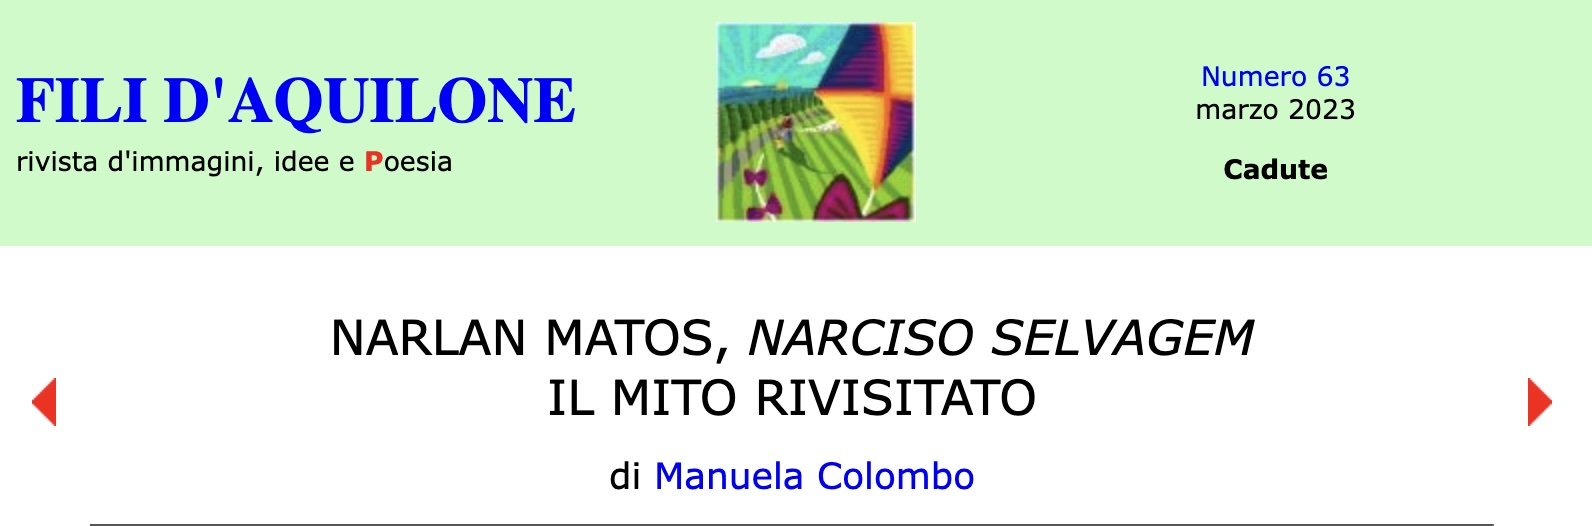
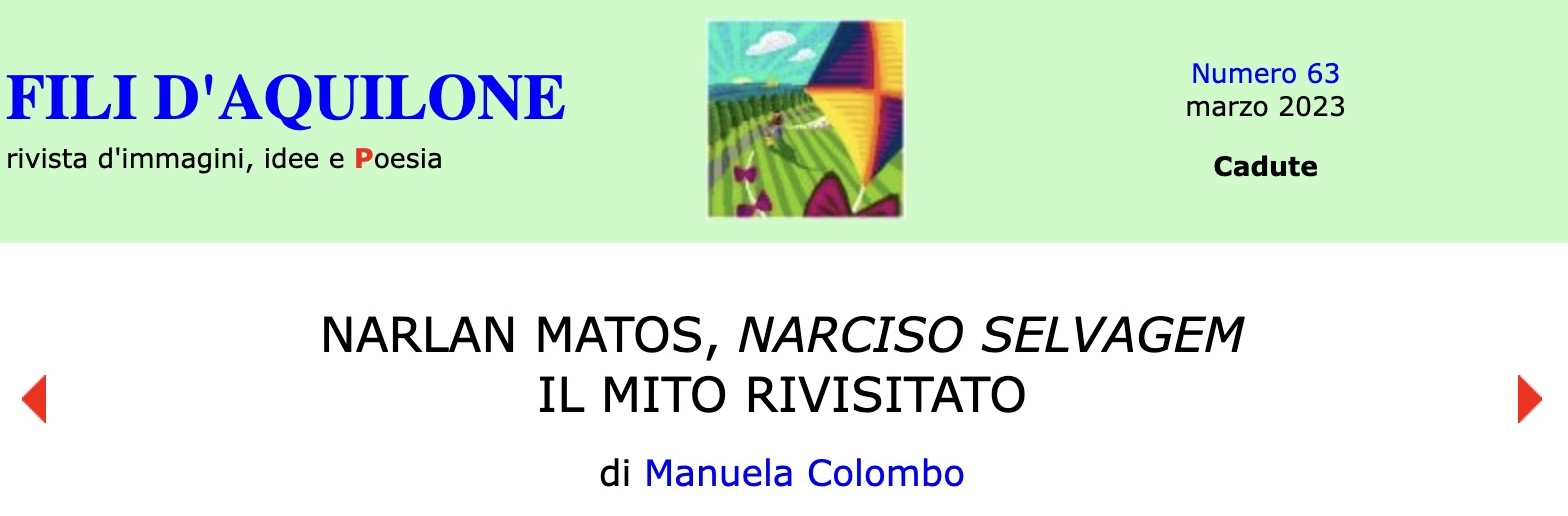
fili images

diff --git a/_languages/italian.md b/_languages/italian.md
@@ -18,7 +18,7 @@ feature_row_books:
     btn_class: "btn--primary"
     
 feature_row_jm:
-  - image_path: /assets/images/features/interim.jpg
+  - image_path: /assets/images/features/fili-2014.jpg
     title: "Manca Qualcosa Nella Stanza: La poesia di Narlan Matos"
     excerpt: |
       Translations by Giorgio Mobili
@@ -28,7 +28,7 @@ feature_row_jm:
     btn_label: "Leggere"
     btn_class: "btn--primary" 
     
-  - image_path: /assets/images/features/interim.jpg
+  - image_path: /assets/images/features/fili-2017-45.jpg
     title: "Dalla Provincia Oscura ala Città del Sole: Aporie quotidiane e circolarità necessaria nella poesia di Narlan Matos"
     excerpt: |
       Translations by Giorgio Mobili
@@ -38,7 +38,7 @@ feature_row_jm:
     btn_label: "Leggere"
     btn_class: "btn--primary" 
     
-  - image_path: /assets/images/features/interim.jpg
+  - image_path: /assets/images/features/fili-2023.jpg
     title: "Narlan Matos, Narciso Selvagem: Il mito rivisitato"
     excerpt: |
       Translations by Manuela Colombo
@@ -49,7 +49,7 @@ feature_row_jm:
     btn_class: "btn--primary" 
     
         
-  - image_path: /assets/images/criticism/fili-2023.jpg
+  - image_path: /assets/images/criticism/fili-2024.jpg
     title: "Narlan Matos, Rebanhos de estrelas"
     excerpt: |
       Translations by Manuela Colombo
